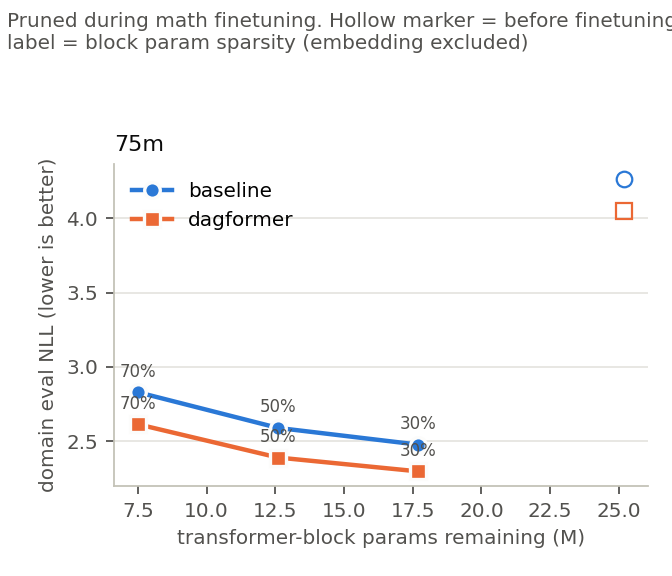
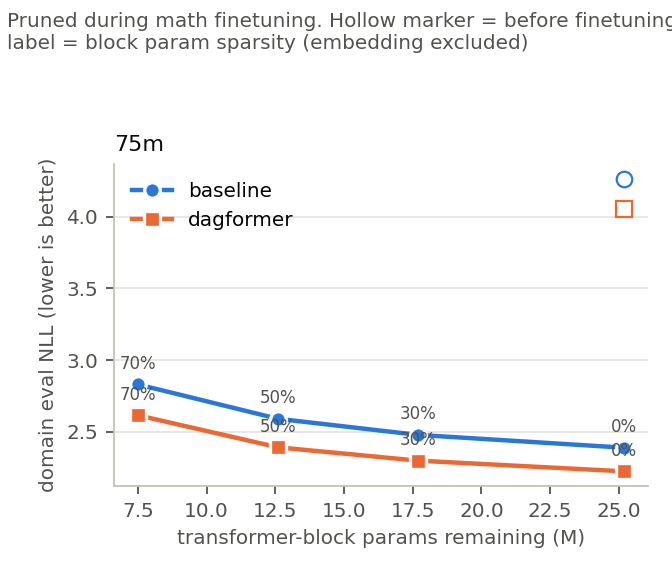
pruning: add unpruned-finetune reference to the 75M results

diff --git a/experiments/pruning/README.md b/experiments/pruning/README.md
@@ -180,6 +180,7 @@ and frozen-predictor controls are queued.
 
 | units | block sparsity | baseline | dagformer | baseline - dagformer |
 |---|---|---|---|---|
+| unpruned finetune | 0.00 | 2.388 | 2.223 | +0.165 |
 | heads + neurons | 0.30 | 2.478 | 2.298 | +0.180 |
 | heads + neurons | 0.50 | 2.590 | 2.391 | +0.199 |
 | heads + neurons | 0.70 | 2.829 | 2.614 | +0.215 |
@@ -188,13 +189,17 @@ and frozen-predictor controls are queued.
 
 What the 75M data says:
 
-- **Head/neuron pruning: the DAGFormer advantage grows with sparsity**
-  (0.18 -> 0.20 -> 0.22 nats from 30% to 70% of block parameters removed),
-  and the post-prune ticks in the trajectory figure show much smaller
-  immediate damage for DAGFormer at 70% (peak 2.9 vs 3.2). Read against the
-  unpruned-finetune gap once the sparsity-0 controls finish; the
-  frozen-predictor run will say how much of this is re-routing versus the
-  routed model simply being more robust to removal.
+- **Head/neuron pruning: the DAGFormer advantage grows with sparsity.**
+  The unpruned finetuning gap is 0.165 nats; after pruning it is 0.180,
+  0.199 and 0.215 at 30 / 50 / 70% of block parameters removed. In
+  compactness terms: DAGFormer with half its heads and MLP channels removed
+  (2.391) matches the unpruned finetuned baseline (2.388), and at 70%
+  removed (2.614) it sits between the baseline's 50% (2.590) and 70% (2.829)
+  points. The post-prune ticks in the trajectory figure also show much
+  smaller immediate damage for DAGFormer at 70% (peak 2.9 vs 3.2). The
+  queued frozen-predictor run says how much of this is re-routing versus the
+  routed model simply being more robust to removal; the random-importance
+  run says how much Taylor selection matters.
 - **Whole-block pruning is where DAGFormer loses.** At one third of blocks
   removed the gap shrinks to 0.06; at half it flips hard (DAGFormer 3.45 vs
   2.83). Taylor importance on a block gate ranked layers 3-5's attention and

diff --git a/experiments/pruning/results/prune_summary.md b/experiments/pruning/results/prune_summary.md
@@ -4,6 +4,8 @@
 | 75m_dagformer_math_mod_s33 | attn,mlp | taylor | 0.33 | 0.333 | 16.8M | 97.3M | 4.0518 | 2.5469 | 5.6916 |
 | 75m_baseline_math_mod_s50 | attn,mlp | taylor | 0.5 | 0.500 | 12.6M | 64.0M | 4.2663 | 2.8323 | 6.1208 |
 | 75m_dagformer_math_mod_s50 | attn,mlp | taylor | 0.5 | 0.500 | 12.6M | 93.1M | 4.0518 | 3.4520 | 6.7356 |
+| 75m_baseline_math_s0 | head,neuron | taylor | 0.0 | 0.000 | 25.2M | 76.6M | 4.2663 | 2.3882 | 5.3220 |
+| 75m_dagformer_math_s0 | head,neuron | taylor | 0.0 | 0.000 | 25.2M | 105.7M | 4.0518 | 2.2231 | 5.1195 |
 | 75m_baseline_math_s30 | head,neuron | taylor | 0.3 | 0.298 | 17.7M | 69.1M | 4.2663 | 2.4777 | 5.4934 |
 | 75m_dagformer_math_s30 | head,neuron | taylor | 0.3 | 0.298 | 17.7M | 98.2M | 4.0518 | 2.2978 | 5.2649 |
 | 75m_baseline_math_s50 | head,neuron | taylor | 0.5 | 0.500 | 12.6M | 64.0M | 4.2663 | 2.5899 | 5.6767 |
@@ -15,6 +17,7 @@
 |---|---|---|---|---|
 | 75m | mod_s33 | 2.6097 | 2.5469 | +0.0628 |
 | 75m | mod_s50 | 2.8323 | 3.4520 | -0.6197 |
+| 75m | s0 | 2.3882 | 2.2231 | +0.1651 |
 | 75m | s30 | 2.4777 | 2.2978 | +0.1799 |
 | 75m | s50 | 2.5899 | 2.3907 | +0.1993 |
 | 75m | s70 | 2.8294 | 2.6140 | +0.2154 |
